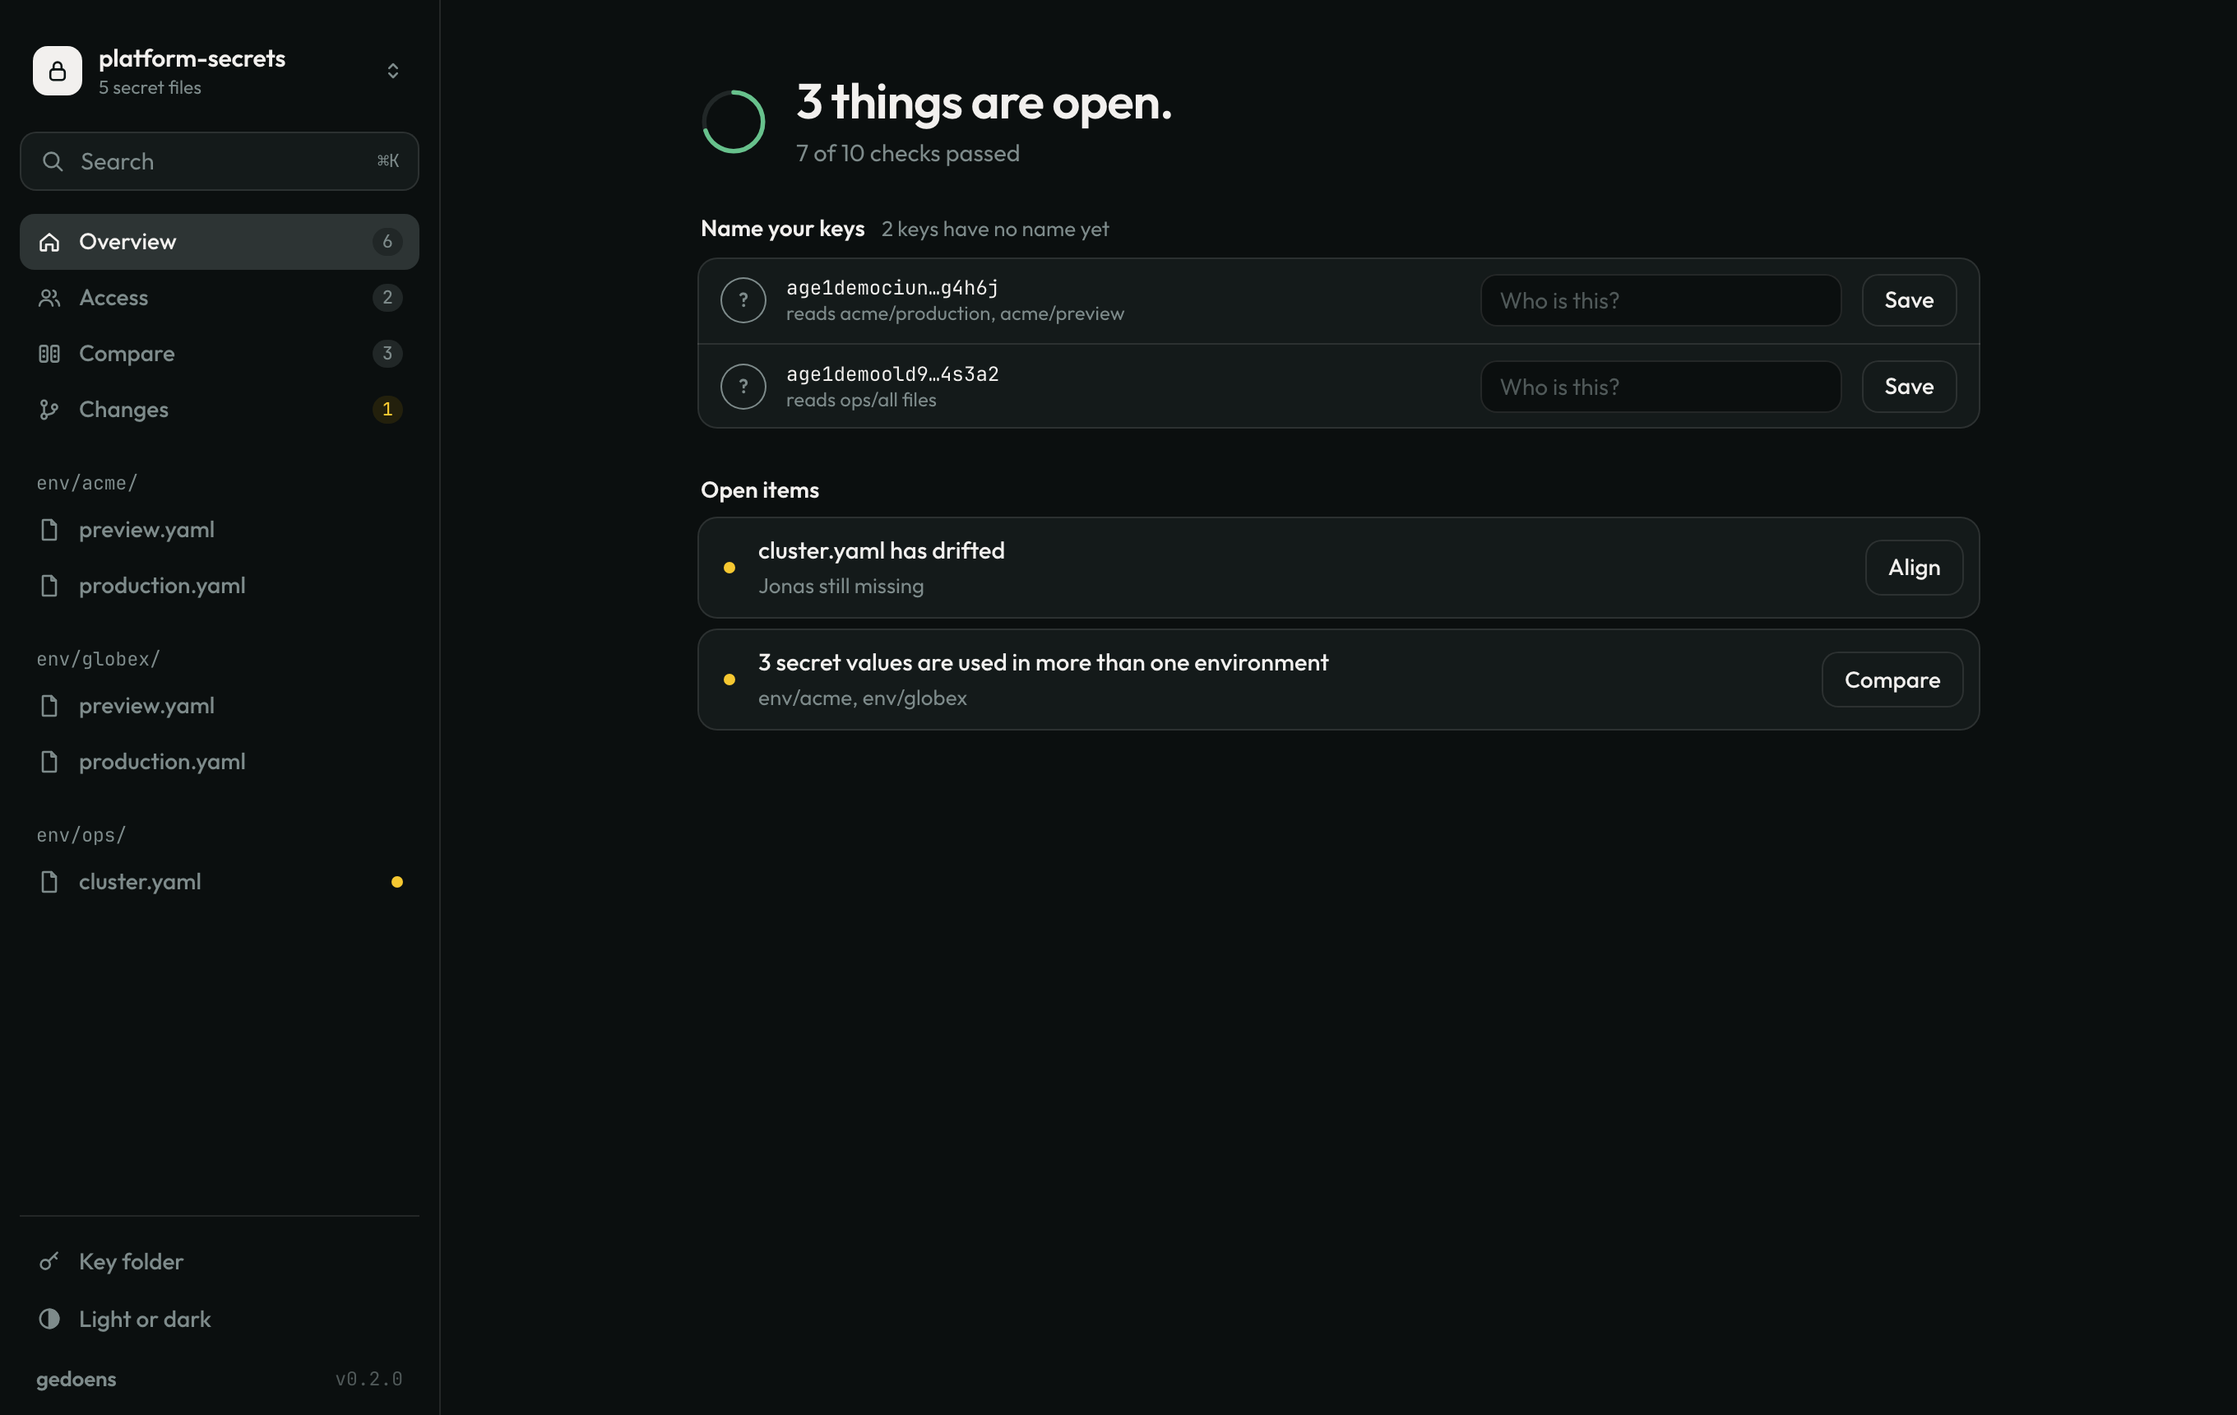
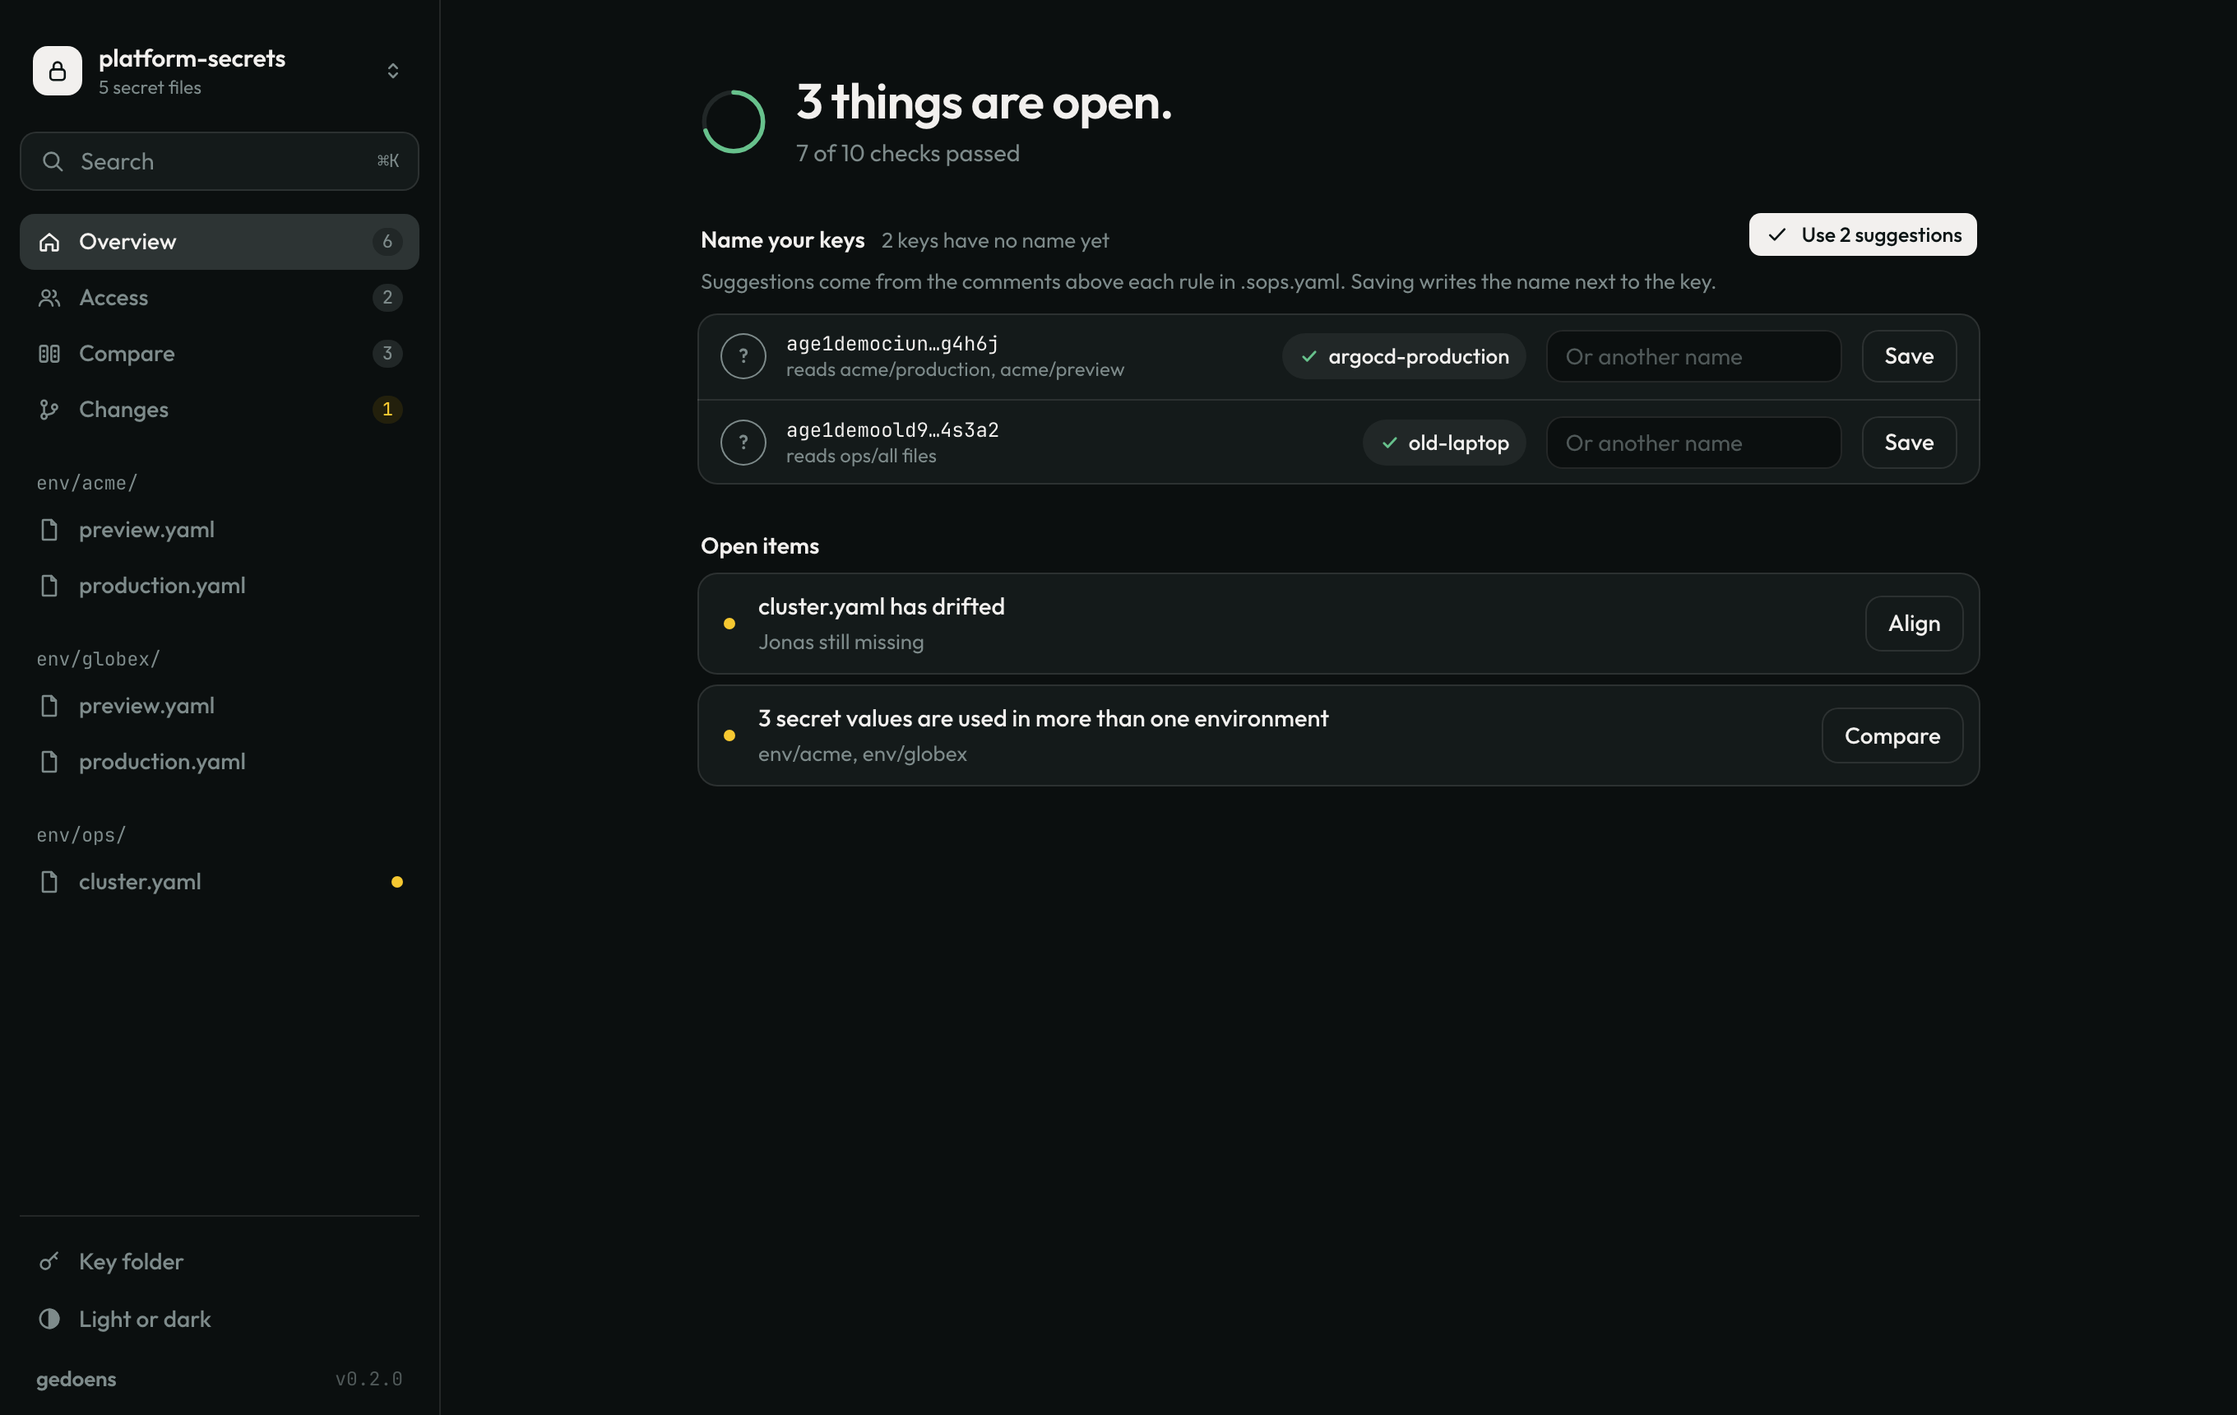
Suggest key names from the owner comments in .sops.yaml
A comment right above a rule's age keys that names as many owners as the
rule has keys (`# argocd-production (ArgoCD), philip, anna`) is read as a
positional hint. Unnamed keys show the hinted name as a one-click
suggestion on the overview, and "Use all suggestions" takes them at once.
Saving writes the name next to the key; the comment line stays.

diff --git a/ui/app.js b/ui/app.js
@@ -280,11 +280,15 @@ function namingList(o) {
     const areas = a.areas.filter((_, i) => row.areas[i]).map(areaName);
     return areas.length ? `reads ${areas.join(', ')}` : 'in no rule, only in files';
   };
-  return `<section class="block"><div class="bh"><h2>Name your keys</h2><span class="fine">${plural(people.length, 'key has', 'keys have')} no name yet</span></div>
+  const hinted = people.filter((p) => p.suggestion);
+  return `<section class="block"><div class="bh"><h2>Name your keys</h2><span class="fine">${plural(people.length, 'key has', 'keys have')} no name yet</span>
+      ${hinted.length > 1 ? `<span class="sp"></span><button class="btn sm pri" data-act="nameAll">${icon('check')}Use ${hinted.length} suggestions</button>` : ''}</div>
+    ${hinted.length ? '<p class="fine hintsrc">Suggestions come from the comments above each rule in .sops.yaml. Saving writes the name next to the key.</p>' : ''}
     <div class="list namel">${people.map((person) => `<div class="item nrow">
       <span class="ava un">?</span>
       <span class="nk"><span class="key">${esc(person.short)}</span><span class="fine">${esc(reach(person))}</span></span>
-      <input class="field" data-name-for="${esc(person.recipient)}" placeholder="Who is this?" autocomplete="off" spellcheck="false">
+      ${person.suggestion ? `<button class="sugg" data-act="nameAs" data-recipient="${esc(person.recipient)}" data-name="${esc(person.suggestion)}" title="Use this name">${icon('check')}${esc(person.suggestion)}</button>` : ''}
+      <input class="field" data-name-for="${esc(person.recipient)}" placeholder="${person.suggestion ? 'Or another name' : 'Who is this?'}" autocomplete="off" spellcheck="false">
       <button class="btn" data-act="name" data-recipient="${esc(person.recipient)}">Save</button></div>`).join('')}</div></section>`;
 }
 
@@ -647,7 +651,7 @@ function layer() {
     const canRemove = !person.me && state.access.areas.some((area, i) => area.editable && person.areas[i]);
     const title = person.me ? 'Your key' : person.name || 'Unnamed key';
     const naming = person.me ? '' : `<label class="l" for="personName">Name</label>
-      <div class="namer"><input class="field" id="personName" data-name-for="${esc(person.recipient)}" value="${esc(person.name || '')}" placeholder="Who does it belong to?" autocomplete="off">
+      <div class="namer"><input class="field" id="personName" data-name-for="${esc(person.recipient)}" value="${esc(person.name || person.suggestion || '')}" placeholder="Who does it belong to?" autocomplete="off">
       <button class="btn pri" data-act="name" data-recipient="${esc(person.recipient)}">Save</button></div>`;
     return `<div class="scrim" data-act="close"><div class="sheet" role="dialog" aria-label="${esc(title)}"><h3>${esc(title)}</h3>
       <div class="fullkey">${esc(person.recipient)}</div>${naming}
@@ -866,6 +870,17 @@ const actions = {
   },
   async ask() { await call('copy_public_key'); toast('Your public key is copied. Send it to someone with access.'); },
   async myKey() { await call('copy_public_key'); toast('Your public key is copied'); },
+  async nameAs(el) {
+    await call('name_key', { recipient: el.dataset.recipient, name: el.dataset.name });
+    await refresh();
+    toast(`The key is now called ${el.dataset.name}`);
+  },
+  async nameAll() {
+    const people = state.overview.issues.filter((x) => x.kind === 'unnamed' && x.person.suggestion).map((x) => x.person);
+    for (const p of people) await call('name_key', { recipient: p.recipient, name: p.suggestion });
+    await refresh();
+    toast(`${plural(people.length, 'key', 'keys')} named`);
+  },
   async name(el) {
     const input = document.querySelector(`[data-name-for="${CSS.escape(el.dataset.recipient)}"]`);
     const name = input.value.trim();

diff --git a/ui/styles.css b/ui/styles.css
@@ -259,6 +259,13 @@ button.item:hover{background:var(--hover)}
 .nk .fine{font-size:12px;white-space:nowrap;overflow:hidden;text-overflow:ellipsis}
 .nrow .field{width:220px;flex:none;margin:0;height:32px;background:var(--bg)}
 .nrow .btn{height:32px}
+.bh .sp{flex:1}
+.hintsrc{margin:-2px 2px 10px}
+.sugg{display:inline-flex;align-items:center;gap:5px;height:28px;padding:0 10px;border-radius:99px;flex:none;
+  font:500 13px var(--sans);color:var(--text);background:var(--s2);transition:background-color var(--t-tint) ease}
+.sugg:hover{background:var(--sel)}
+.sugg svg{width:13px;height:13px;color:var(--ok);stroke-width:2.2}
+.nrow .field{width:180px}
 
 /* Compare: variables down, files across; equal values share a letter and a tint. */
 .segs{display:flex;padding:3px;border-radius:10px;background:var(--s2);gap:2px}

diff --git a/crates/infrastructure/src/sops_config.rs b/crates/infrastructure/src/sops_config.rs
@@ -179,6 +179,86 @@ fn names_in(text: &str) -> BTreeMap<Recipient, String> {
     names
 }
 
+/// Splits `a (x, y), b, c` at the commas that are not inside brackets.
+fn split_top_level(text: &str) -> Vec<String> {
+    let mut parts = Vec::new();
+    let mut depth = 0i32;
+    let mut current = String::new();
+    for c in text.chars() {
+        match c {
+            '(' | '[' => depth += 1,
+            ')' | ']' => depth -= 1,
+            ',' if depth == 0 => {
+                parts.push(std::mem::take(&mut current));
+                continue;
+            }
+            _ => {}
+        }
+        current.push(c);
+    }
+    parts.push(current);
+    parts
+}
+
+/// `complioty-production (ArgoCD — same cluster)` becomes `complioty-production`.
+fn without_brackets(text: &str) -> String {
+    let mut out = String::new();
+    let mut depth = 0i32;
+    for c in text.chars() {
+        match c {
+            '(' | '[' => depth += 1,
+            ')' | ']' => depth -= 1,
+            _ if depth == 0 => out.push(c),
+            _ => {}
+        }
+    }
+    out.split_whitespace().collect::<Vec<_>>().join(" ")
+}
+
+/// Names that a comment right above a rule's `age:` lists in the order of its keys:
+///
+/// ```yaml
+///     # argocd-production, philip, anna
+///     age: >-
+///       age1…, age1…, age1…
+/// ```
+///
+/// Taken only when the comment names exactly as many owners as the rule has keys.
+/// Where rules disagree about a key, the name most of them use wins.
+fn hinted_names(lines: &[&str], spans: &[RuleSpan], areas: &[Area]) -> BTreeMap<Recipient, String> {
+    let mut votes: BTreeMap<Recipient, Vec<String>> = BTreeMap::new();
+    for (span, area) in spans.iter().zip(areas) {
+        let Some(block) = age_block(lines, *span) else { continue };
+        let mut comment: Vec<&str> = Vec::new();
+        let mut i = block.start;
+        while i > span.start {
+            i -= 1;
+            let line = lines[i].trim();
+            if !line.starts_with('#') {
+                break;
+            }
+            comment.insert(0, line.trim_start_matches('#').trim());
+        }
+        if comment.is_empty() {
+            continue;
+        }
+        let names: Vec<String> = split_top_level(&comment.join(" ")).iter().map(|part| without_brackets(part)).collect();
+        if names.len() != area.recipients.len() || names.iter().any(|n| n.is_empty() || n.chars().count() > 40) {
+            continue;
+        }
+        for (recipient, name) in area.recipients.iter().zip(names) {
+            votes.entry(recipient.clone()).or_default().push(name);
+        }
+    }
+    votes
+        .into_iter()
+        .filter_map(|(recipient, names)| {
+            let best = names.iter().max_by_key(|candidate| names.iter().filter(|n| n == candidate).count())?.clone();
+            Some((recipient, best))
+        })
+        .collect()
+}
+
 fn parse(text: &str) -> Result<AccessPolicy> {
     let raw: RawConfig = serde_yaml_ng::from_str(text)
         .map_err(|e| AppError::Unsupported(format!("The .sops.yaml is not valid YAML: {e}")))?;
@@ -206,8 +286,9 @@ fn parse(text: &str) -> Result<AccessPolicy> {
                 editable: rule.age.is_some() && groups.is_empty() && plain_block,
             }
         })
-        .collect();
-    Ok(AccessPolicy { areas, names: names_in(text) })
+        .collect::<Vec<Area>>();
+    let hints = if layout_known { hinted_names(&lines, &spans, &areas) } else { BTreeMap::new() };
+    Ok(AccessPolicy { areas, names: names_in(text), hints })
 }
 
 fn tidy_name(name: &str) -> Result<String> {
@@ -298,7 +379,7 @@ impl PolicyRepository for SopsConfigFile {
             let areas = editable_areas_with(policy, recipient);
             if areas.is_empty() {
                 return Err(AppError::Unsupported(
-                    "Dieser Key steht in keinem Bereich der .sops.yaml. Einen Namen kann er erst dort bekommen.".into(),
+                    "This key is in no rule of the .sops.yaml, so there is nowhere to write its name.".into(),
                 ));
             }
             Ok(areas)
@@ -375,6 +456,28 @@ mod tests {
         let text = fs::read_to_string(&path).unwrap();
         assert_eq!(text.matches(&format!("- {B}  # CI Runner")).count(), 3);
         assert!(SopsConfigFile.rename(&path, &key(C), "Niemand").is_err());
+    }
+
+    #[test]
+    fn names_listed_above_a_rule_become_suggestions() {
+        let text = format!(
+            "creation_rules:\n  - path_regex: prod/.*\n    # argocd-production (ArgoCD, prod), philip, anna\n    age: >-\n      {A},\n      {B},\n      {C}\n  - path_regex: dev/.*\n    # philip, anna\n    age: {B},{C}\n  - path_regex: odd/.*\n    # only one name for two keys\n    age: {A},{B}\n"
+        );
+        let policy = parse(&text).unwrap();
+        assert_eq!(policy.hint_for(&key(A)), Some("argocd-production"));
+        assert_eq!(policy.hint_for(&key(B)), Some("philip"));
+        assert_eq!(policy.hint_for(&key(C)), Some("anna"));
+        assert_eq!(policy.name_of(&key(B)), None, "a hint is not a name");
+
+        // Taking a suggestion writes it as a real name and keeps the comment line.
+        let (_keep, path) = file_with(&text);
+        SopsConfigFile.rename(&path, &key(B), "philip").unwrap();
+        let written = fs::read_to_string(&path).unwrap();
+        assert!(written.contains("# argocd-production (ArgoCD, prod), philip, anna"));
+        let again = parse(&written).unwrap();
+        assert_eq!(again.name_of(&key(B)), Some("philip"));
+        assert_eq!(again.hint_for(&key(B)), None);
+        assert_eq!(again.hint_for(&key(C)), Some("anna"));
     }
 
     #[test]

diff --git a/crates/domain/src/access.rs b/crates/domain/src/access.rs
@@ -75,6 +75,9 @@ pub struct AreaLabel {
 pub struct AccessPolicy {
     pub areas: Vec<Area>,
     pub names: BTreeMap<Recipient, String>,
+    /// Names the file hints at without stating them per key, for example a comment
+    /// above a rule that lists its owners in the order of the keys. Offered, never assumed.
+    pub hints: BTreeMap<Recipient, String>,
 }
 
 impl AccessPolicy {
@@ -84,6 +87,14 @@ impl AccessPolicy {
 
     pub fn name_of(&self, recipient: &Recipient) -> Option<&str> {
         self.names.get(recipient).map(String::as_str)
+    }
+
+    /// A likely name for a key that has none yet.
+    pub fn hint_for(&self, recipient: &Recipient) -> Option<&str> {
+        if self.names.contains_key(recipient) {
+            return None;
+        }
+        self.hints.get(recipient).map(String::as_str)
     }
 
     pub fn recipients(&self) -> Vec<Recipient> {
@@ -114,6 +125,7 @@ mod tests {
                 area(2, None),
             ],
             names: BTreeMap::new(),
+            hints: BTreeMap::new(),
         };
         assert_eq!(policy.area_for("secrets/prod/payments.yaml").unwrap().index, 0);
         assert_eq!(policy.area_for("secrets/prod/api.yaml").unwrap().index, 1);

diff --git a/crates/application/src/views.rs b/crates/application/src/views.rs
@@ -41,11 +41,13 @@ pub struct Person {
     pub short: String,
     pub name: Option<String>,
     pub me: bool,
+    /// A name the `.sops.yaml` hints at, offered for keys that have none.
+    pub suggestion: Option<String>,
 }
 
 impl Person {
     pub fn new(recipient: &Recipient, name: Option<&str>, me: bool) -> Self {
-        Self { recipient: recipient.as_str().to_owned(), short: recipient.short(), name: name.map(str::to_owned), me }
+        Self { recipient: recipient.as_str().to_owned(), short: recipient.short(), name: name.map(str::to_owned), me, suggestion: None }
     }
 }
 

diff --git a/crates/application/src/service.rs b/crates/application/src/service.rs
@@ -33,7 +33,9 @@ impl Snapshot {
 
     pub fn person(&self, recipient: &Recipient) -> Person {
         let name = self.policy.as_ref().and_then(|p| p.name_of(recipient));
-        Person::new(recipient, name, self.own.contains(recipient))
+        let mut person = Person::new(recipient, name, self.own.contains(recipient));
+        person.suggestion = self.policy.as_ref().and_then(|p| p.hint_for(recipient)).map(str::to_owned);
+        person
     }
 
     pub fn file(&self, relative: &str) -> Result<&FoundFile> {

diff --git a/README.md b/README.md
@@ -43,7 +43,7 @@ No server, no account, no telemetry. Everything runs on your machine.
 |---|---|
 | **Files** | Every SOPS file in the folder (YAML, JSON, ENV, INI) as one table, grouped by section, with a filter. Values stay as dots until you click one. Edit in place; nothing is written until you press **Save** or <kbd>Enter</kbd>, and every save can be undone. |
 | **Access** | One table answers *who may read what*: keys down, rules from `.sops.yaml` across, grouped by folder. Tick a box to grant. Revoking updates the files and rotates their data keys in one step. |
-| **Names** | Every key gets a name, stored as a comment next to it in `.sops.yaml` (`- age1…  # Anna`). Unnamed keys are listed first on the overview, with a field to name them right there. |
+| **Names** | Every key gets a name, stored as a comment next to it in `.sops.yaml` (`- age1…  # Anna`). Unnamed keys are listed first on the overview, with a field to name them right there. If a comment above a rule already lists the owners in the order of its keys (`# argocd, philip, anna`), gedoens offers those names; one click writes them next to the keys. |
 | **Same values** | Secrets with capital names (`DB_PASSWORD`, `API_KEY`) are compared between the files of each folder. When preview and production share a password, it says so, next to the key and on the overview. Values are compared in the backend and never shown. |
 | **Changes** | The secret files that differ from the last commit, down to which values were added, changed or removed. Commit them on a new branch, push, and open a GitLab merge request in one step. Other files in the repository are never touched. |
 | **Drift and merging** | A file whose recipients differ from its rule shows up with one button to fix it. After a pull, edits to the same file are merged value by value; you are asked only where both sides changed the same value. |
